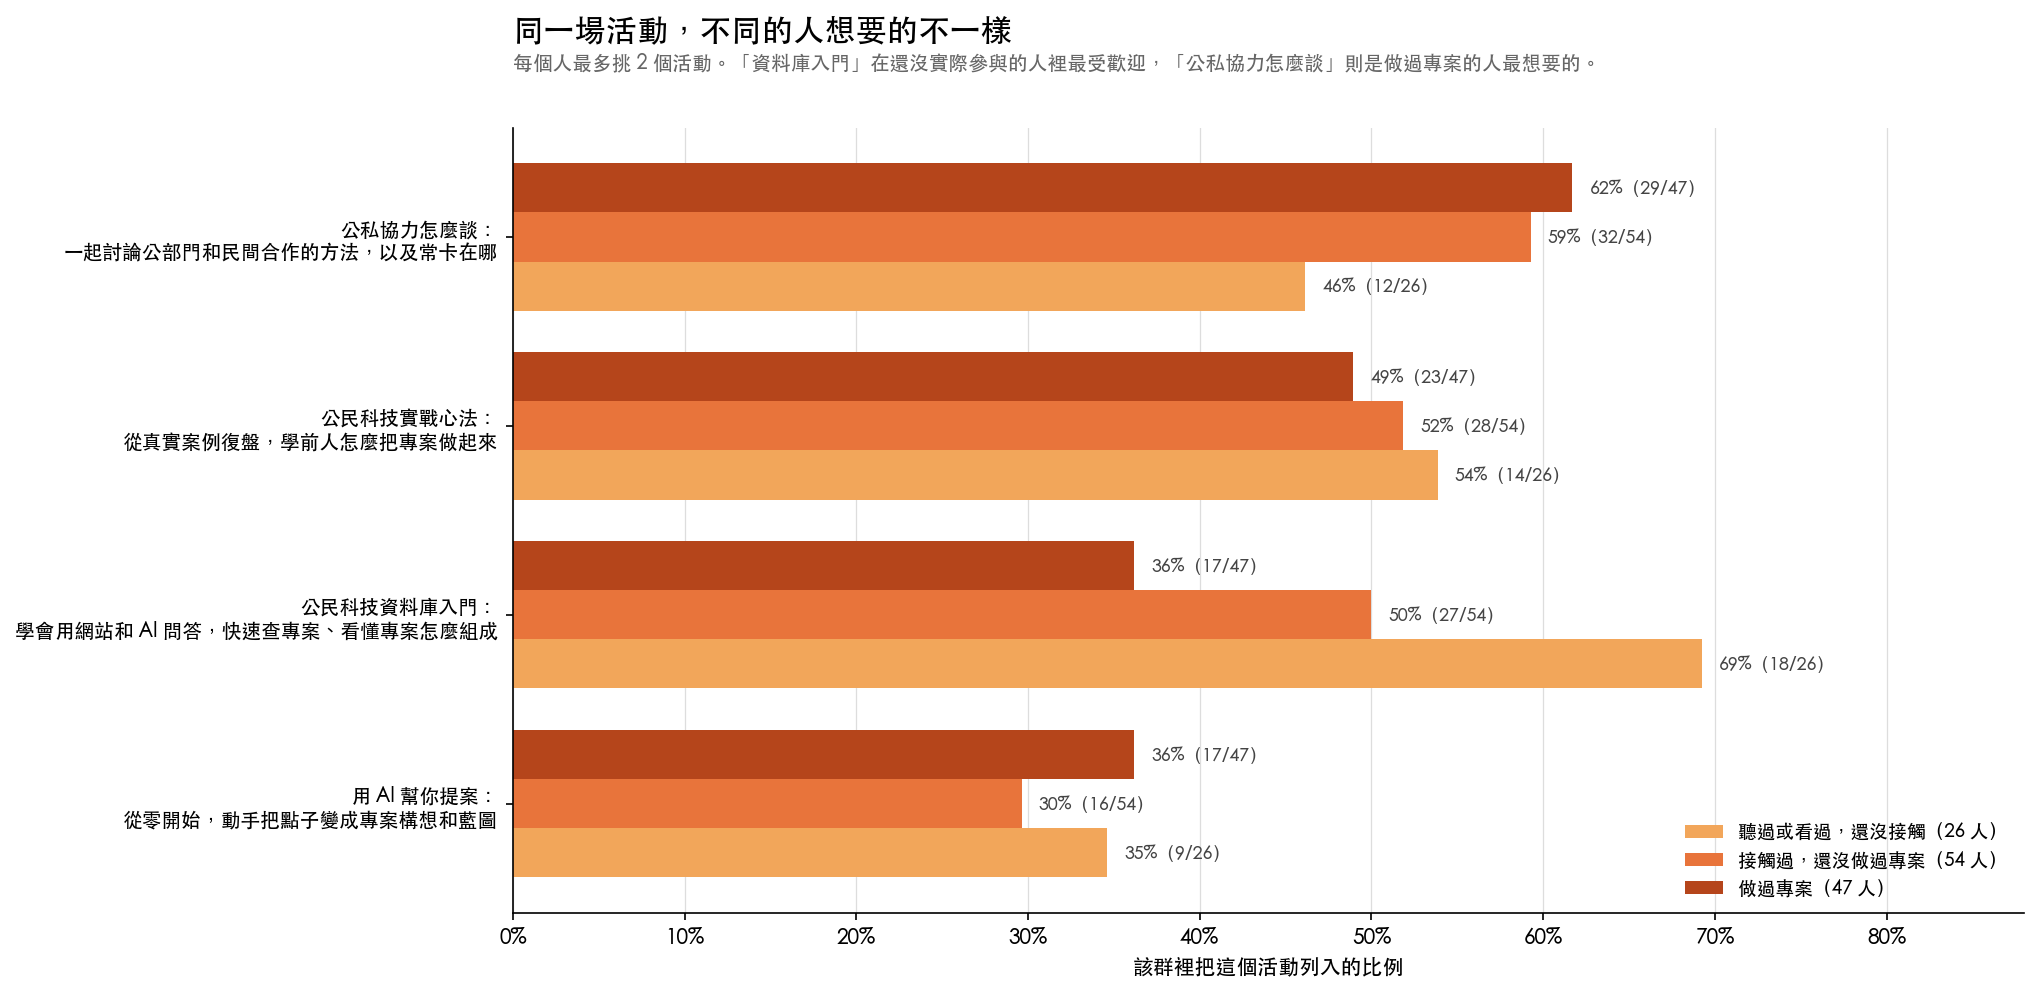
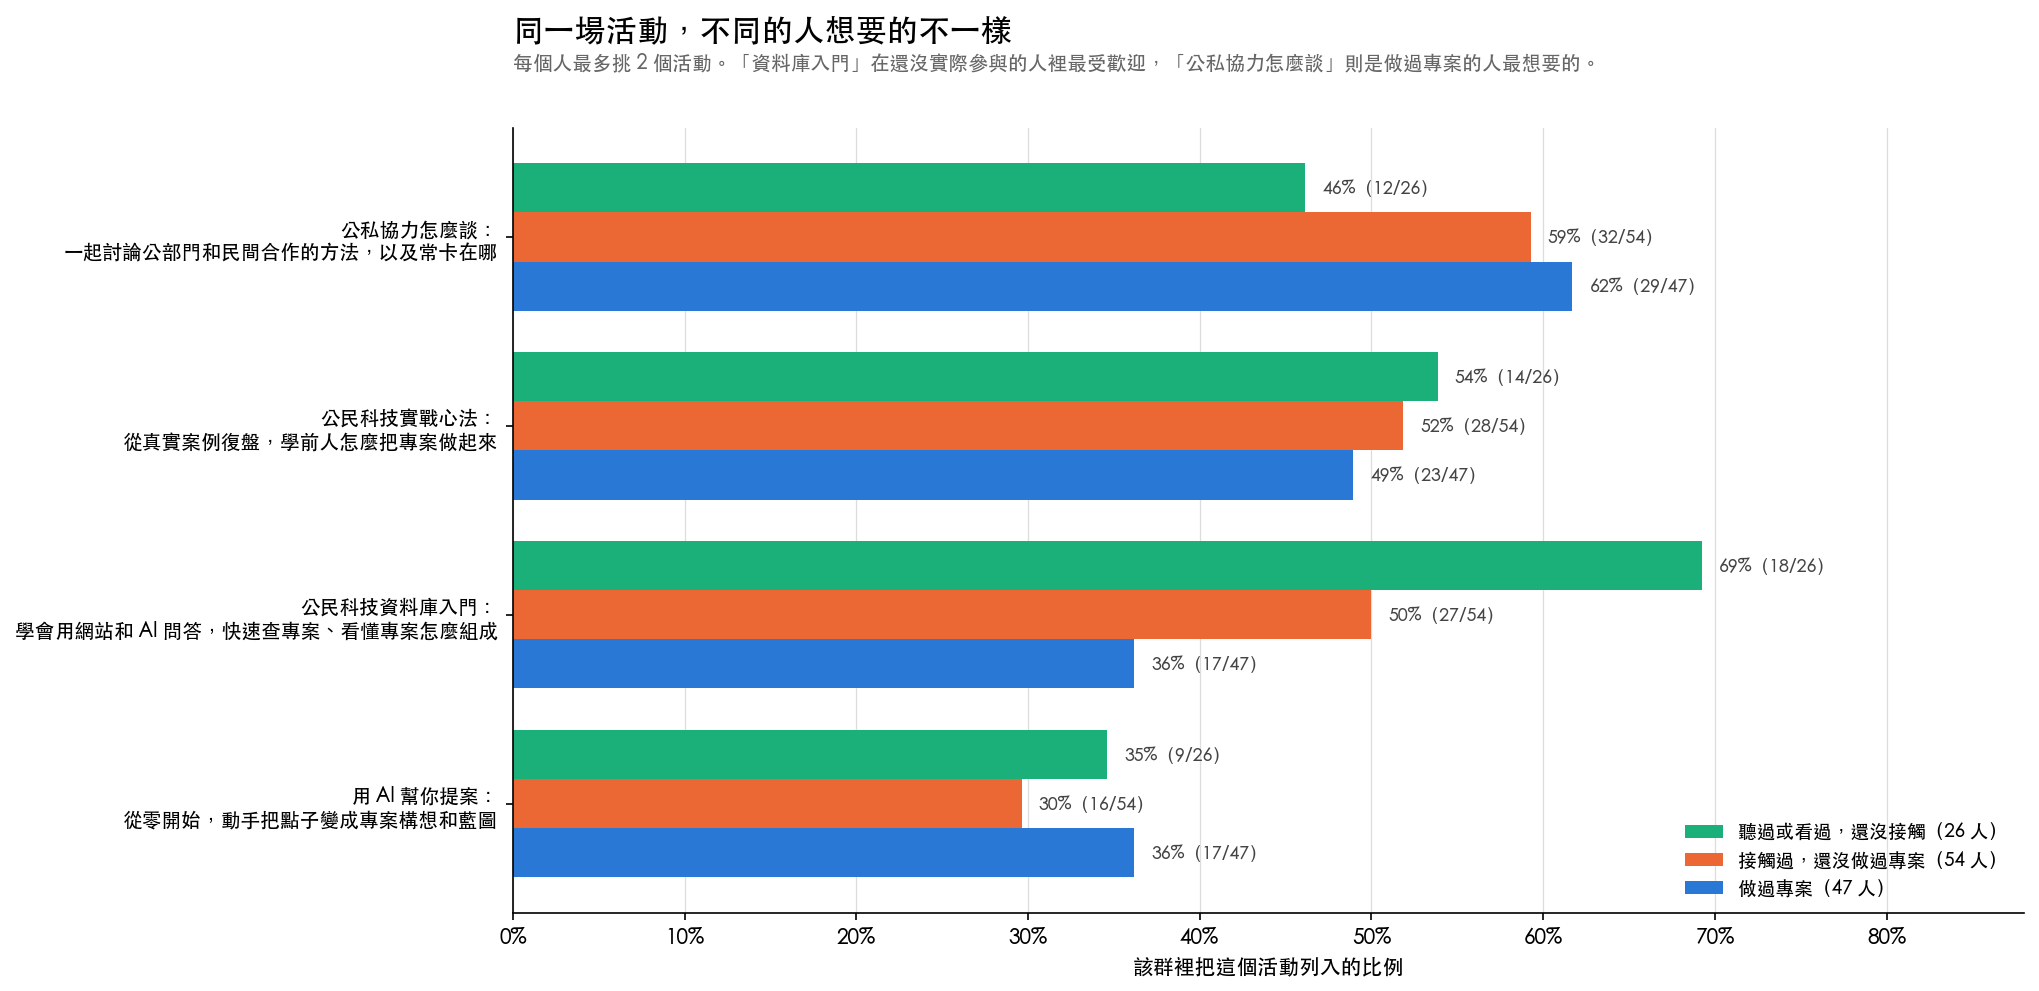
圖 11 改用共用的三層配色，五張三群組圖現在完全一致
`11_activity_by_layer.py` 是唯一沒有跟到 common.py 共用配色的繪圖腳本：
第 43 行寫死了一組橘色階（#F2A65A／#E8743B／#B5451B），
導致圖 11 的三群組是單色階，與 01、13、14、15 的綠橘藍對不起來。

- 改為 `colors = [C.PALETTE["layers"][g] for g in groups]`，
  取用 common.py 既有的三層配色（綠＝還沒接觸、橘＝接觸過未參與、藍＝做過專案）
- 長條順序由 `(1-k)` 改為 `(k-1)`，讓由上到下是綠橘藍，與圖例同序，也與 14、15 一致
- 簡報架構同步移除「配色不統一，請照該頁的圖走」的警語與 M2 的配色提醒

資料完全沒動：重跑後所有百分比與分子分母與原圖逐一相同，只有顏色與長條順序改變。
全專案掃過一次，其餘腳本沒有其他寫死的類別色。

diff --git a/04_問卷分析報告/分析程式/11_activity_by_layer.py b/04_問卷分析報告/分析程式/11_activity_by_layer.py
@@ -40,7 +40,9 @@ def main():
     ]
     labels = [t.replace("：", "：\n", 1) for t in order]
     groups = C.LAYER_ORDER
-    colors = ["#F2A65A", "#E8743B", "#B5451B"]
+    # 三層一律用 PALETTE["layers"]（綠／橘／藍），與 01、13、14、15 同一套。
+    # 原本這裡寫死一組橘色階，是全部圖表裡唯一沒跟到共用配色的地方。
+    colors = [C.PALETTE["layers"][g] for g in groups]
 
     fig, ax = plt.subplots(figsize=(13, 6.8))
     y = np.arange(len(order))
@@ -51,7 +53,8 @@ def main():
         assert not missing, f"{g} 缺少主題：{missing}"
         vals = [sub.loc[t, "群內比例"] * 100 for t in order]
         nums = [f"{int(sub.loc[t,'分子'])}/{int(sub.loc[t,'分母'])}" for t in order]
-        bars = ax.barh(y + (1 - k) * h, vals, height=h, color=colors[k], label=lay[g])
+        # (k - 1)：讓長條由上到下是綠、橘、藍，與圖例同序，也與 14、15 一致。
+        bars = ax.barh(y + (k - 1) * h, vals, height=h, color=colors[k], label=lay[g])
         for b, v, n in zip(bars, vals, nums):
             ax.text(v + 1, b.get_y() + b.get_height() / 2, f"{v:.0f}%（{n}）",
                     va="center", fontsize=8.5, color="#444")

diff --git a/04_問卷分析報告/公民科技生態系分析報告_簡報架構.md b/04_問卷分析報告/公民科技生態系分析報告_簡報架構.md
@@ -49,9 +49,9 @@
 
 ### 三層配色
 
-- `01`、`13`、`14` 這幾張圖是綠（還沒接觸）／橘（接觸過未參與）／藍（做過專案）。
-- 但 **`11_三層×活動意願.png` 是淺橘到深橘的單色階，沒有綠與藍**。
-- 同一頁的表格與標示請跟著**該頁的圖**配色，不要全簡報套同一組三色，否則 M2 那頁會對不起來。
+**綠＝還沒接觸的人、橘＝接觸過但還沒做過專案的人、藍＝做過專案的人。**
+色隨群體固定，不隨排序改變。所有畫到三層的圖（`01`、`11`、`13`、`14`、`15`）都已統一成這套，
+排版時全簡報的表格底塊、標示、色帶都沿用同一組色，不需要逐頁另外判斷。
 
 ### 頁角註（每頁右下角，固定位置）
 
@@ -561,7 +561,6 @@
     在做過專案的人裡排得比較後面（36%，17/47）
   - 公私協力怎麼談正好相反：做過專案的人裡最高（62%，29/47），還沒接觸的人裡較低（46%，12/26）
   - 辦活動時分開設定對象，可能比把兩種需求混在同一場裡更有效
-- **配色提醒**：這張圖是單色階橘，不是綠橘藍。同頁的表格與標示請跟著它。
 - **頁角註**：`分母 127 人・最多選 2 個・還沒接觸那層 26 人為小樣本`
 
 ## M3　還沒動手做過專案的人，感受不到團隊經營的痛
